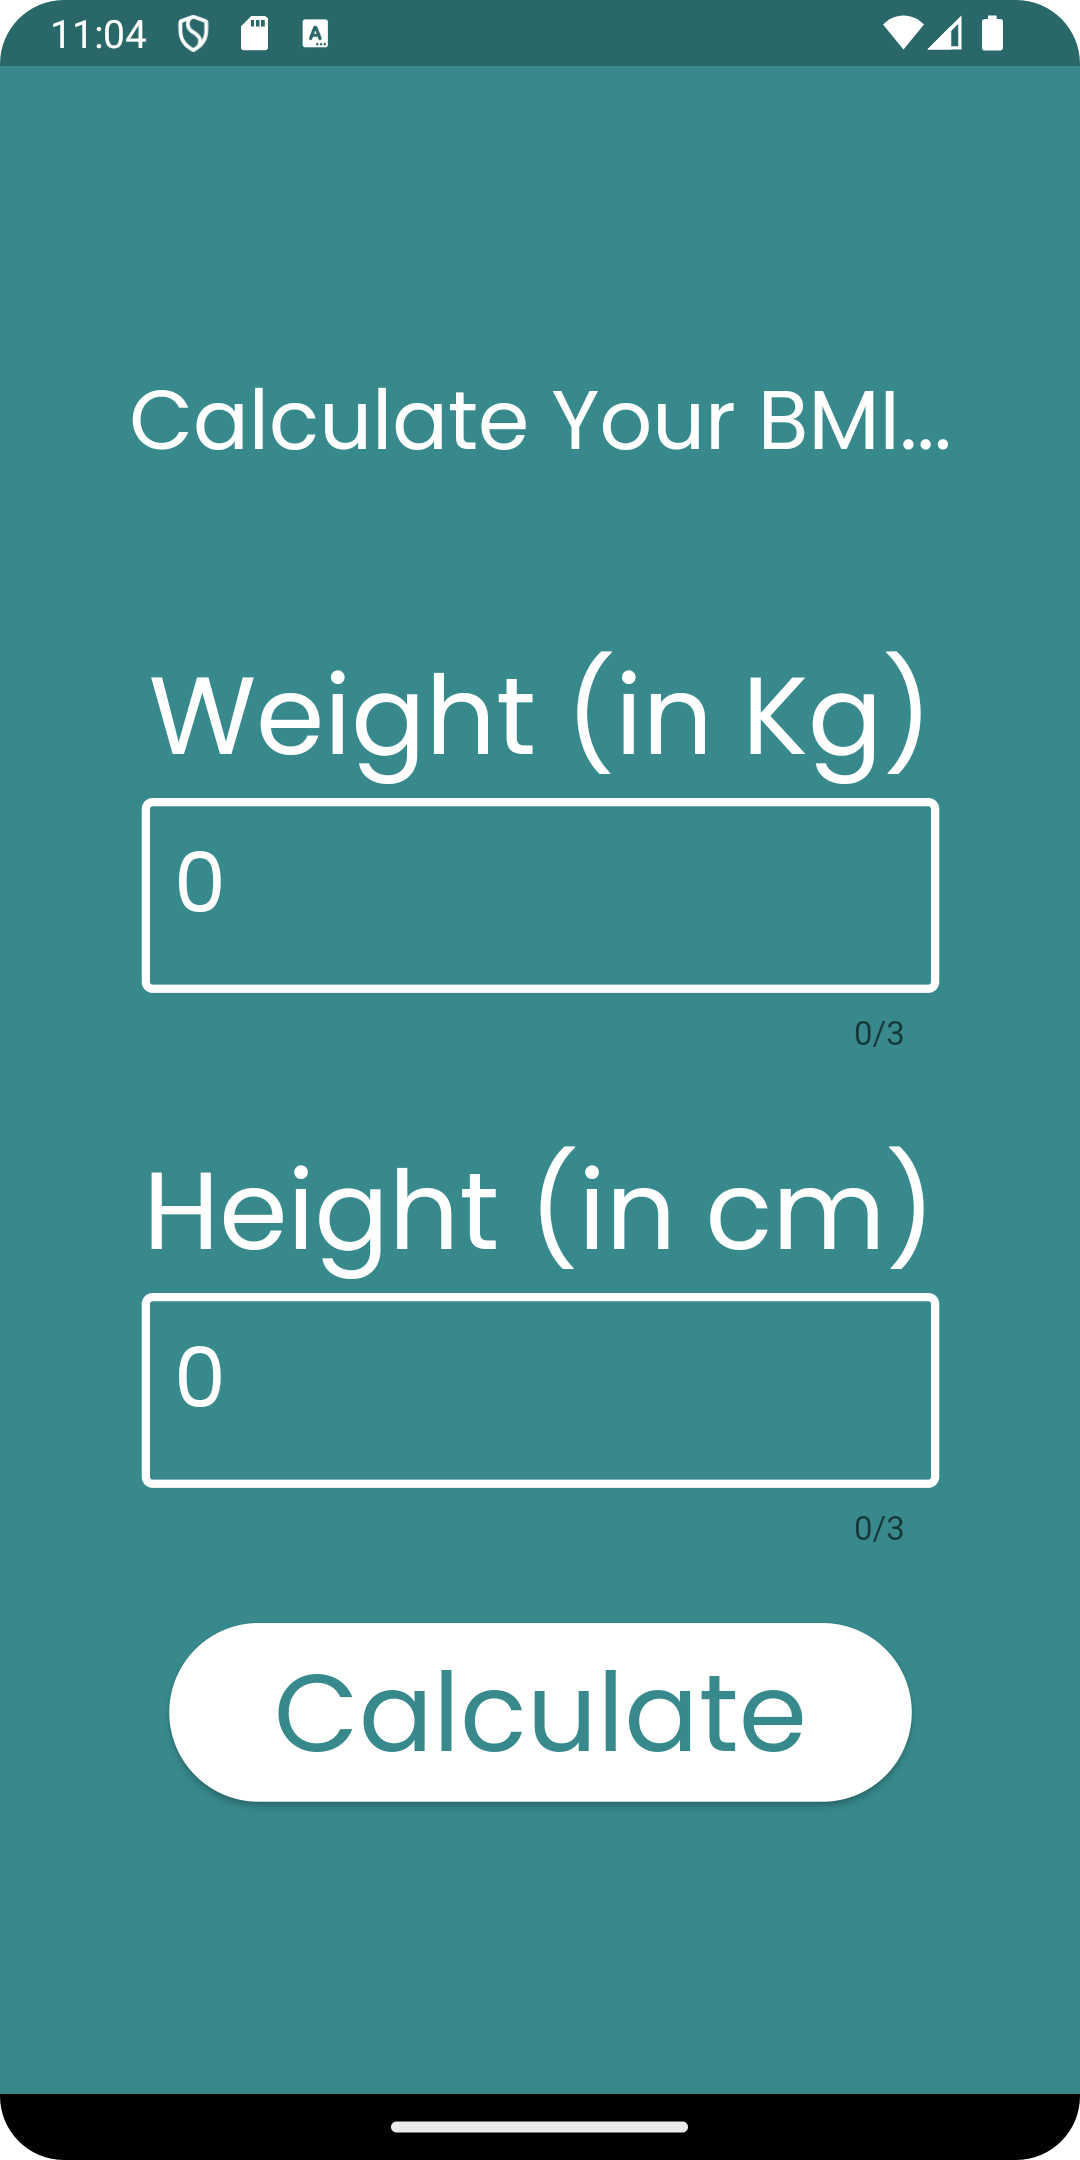
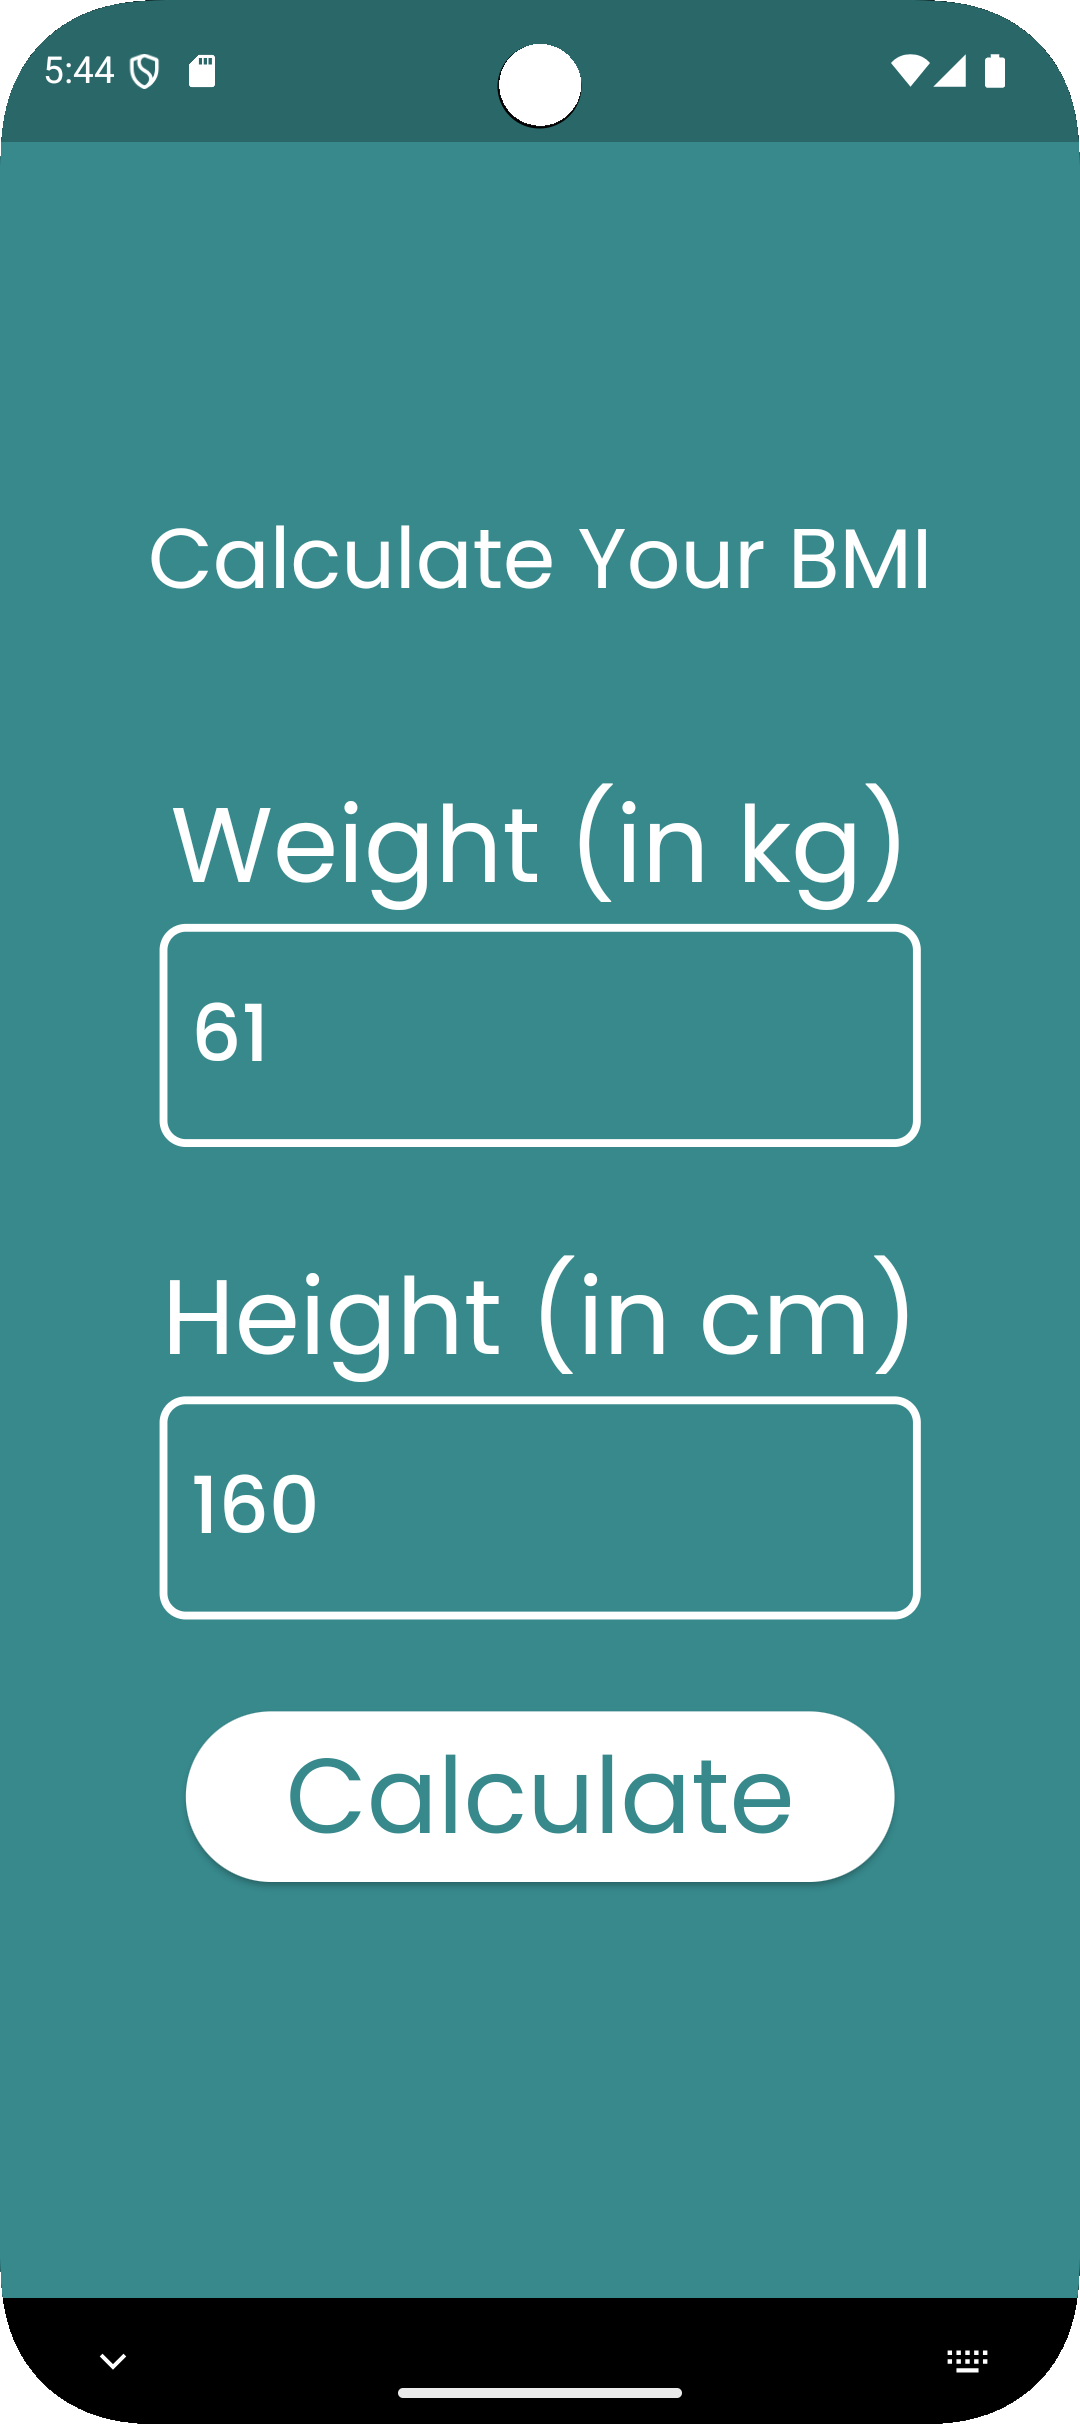
deployment changes

diff --git a/lib/views/home_screen.dart b/lib/views/home_screen.dart
@@ -116,7 +116,7 @@ class _HomeScreenState extends State<HomeScreen> {
             ),
           ),
         )),
-        bottomNavigationBar: const BannerAdWidget(),
+        // bottomNavigationBar: const BannerAdWidget(),
       ),
     );
   }
